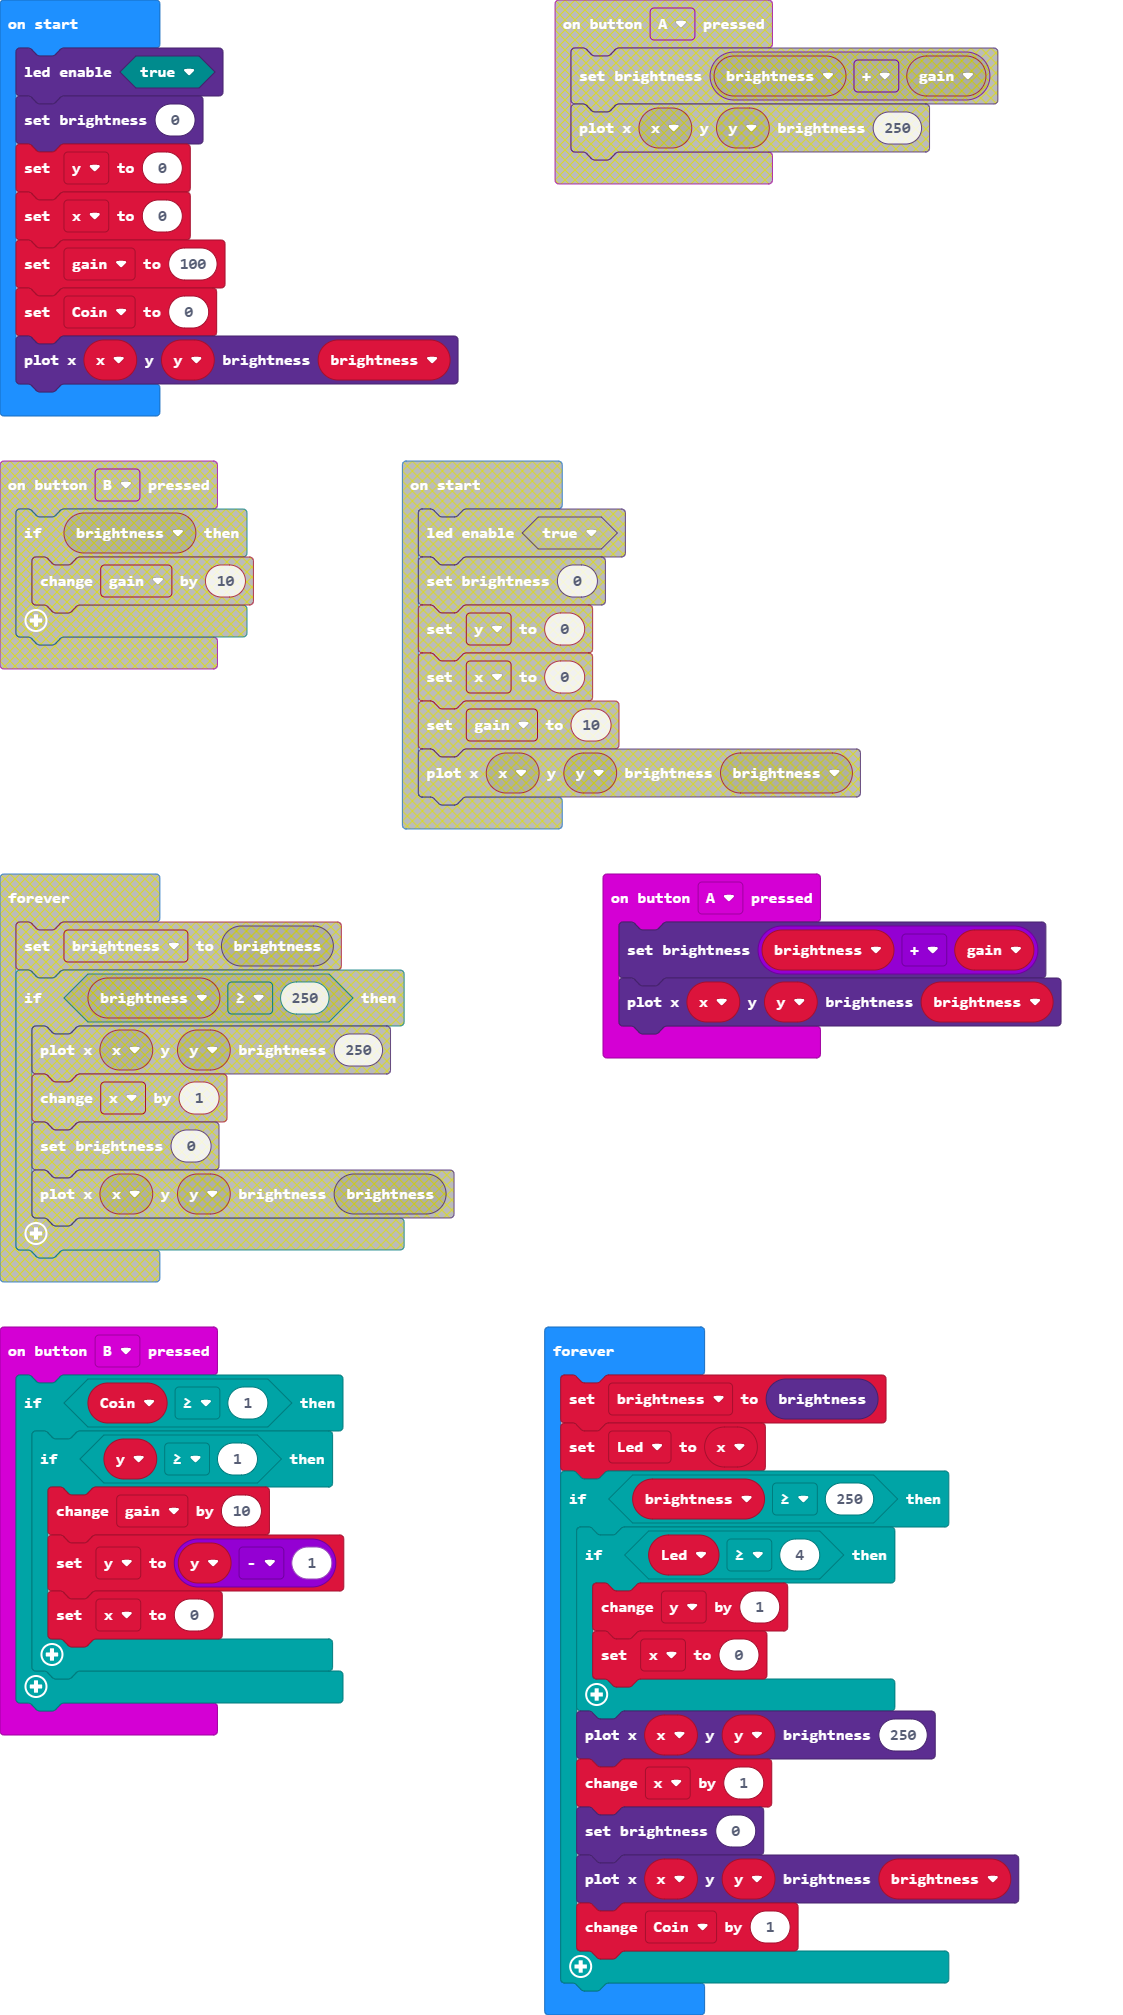
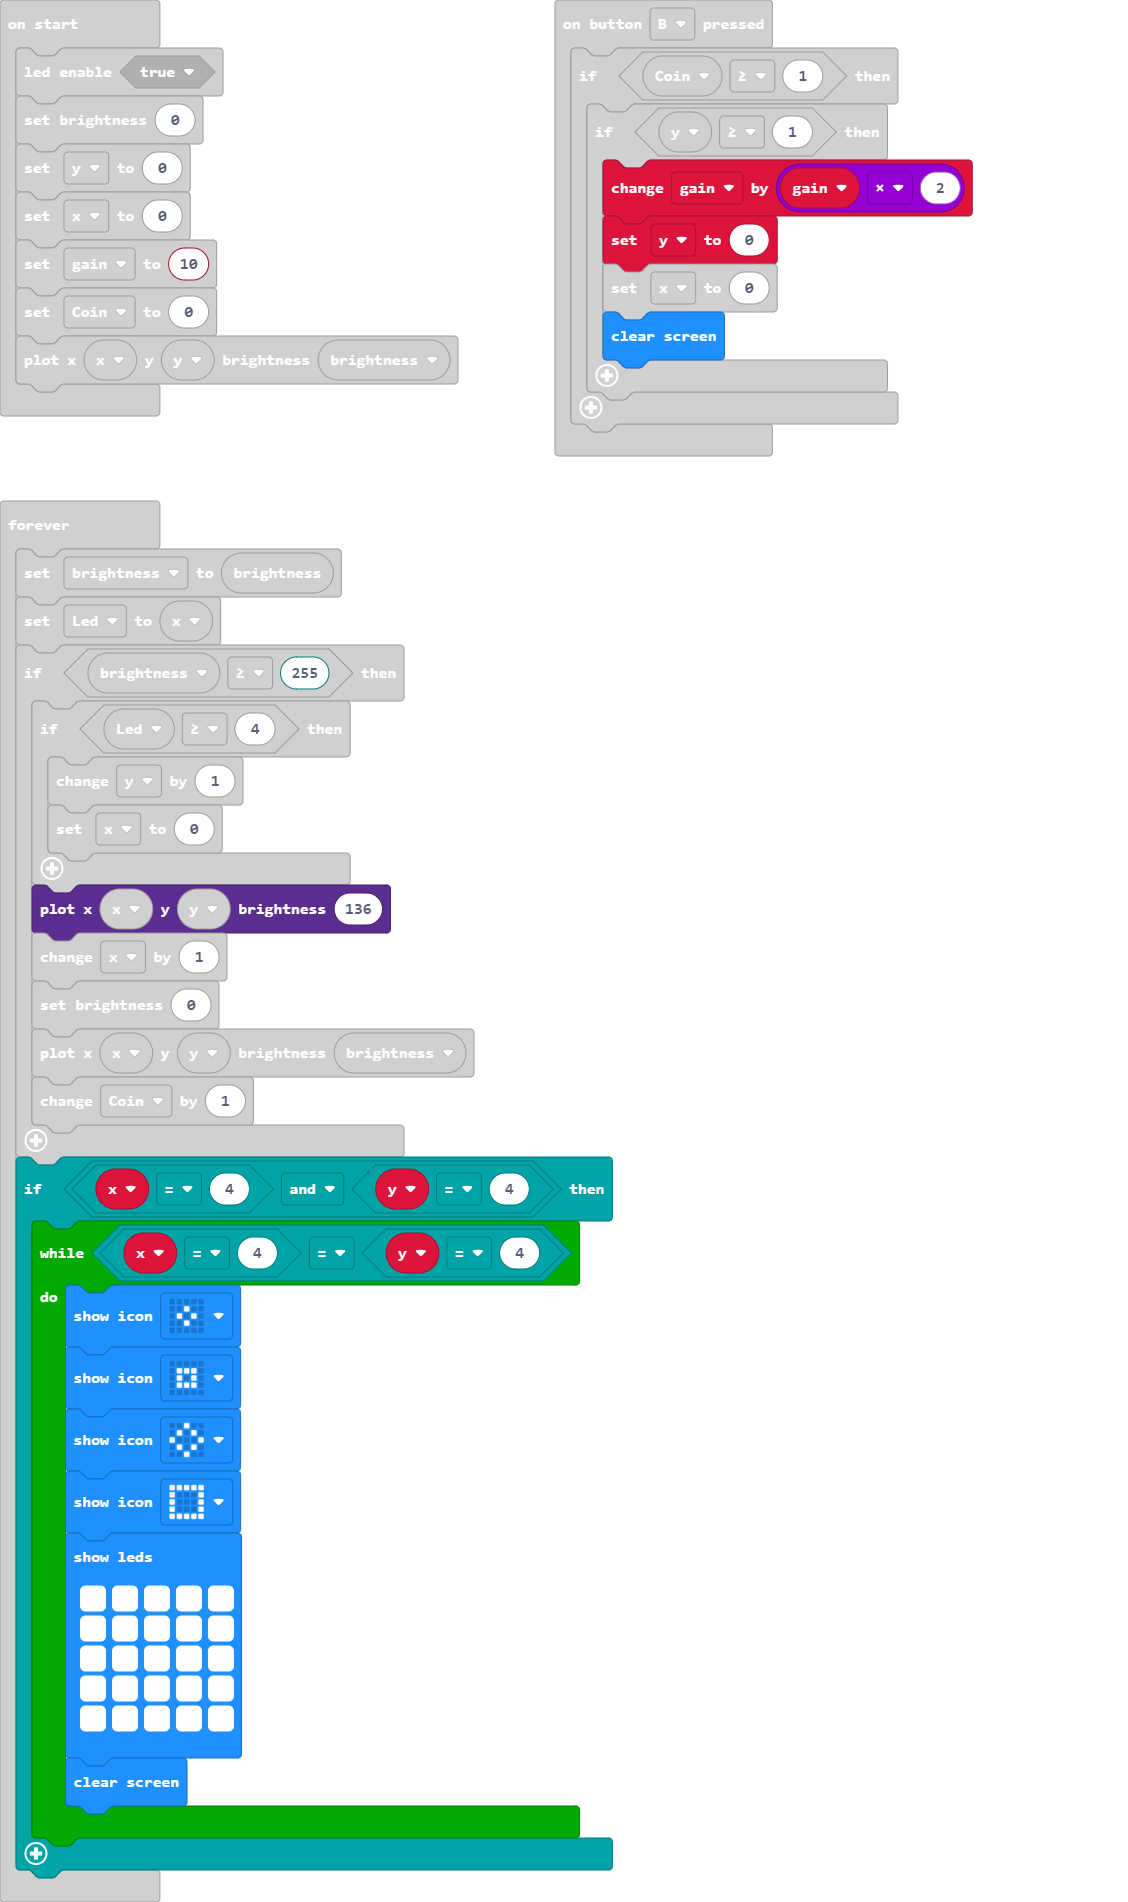
Update main.blocks, main.ts

diff --git a/main.ts b/main.ts
@@ -5,9 +5,10 @@ input.onButtonPressed(Button.A, function () {
 input.onButtonPressed(Button.B, function () {
     if (Coin >= 1) {
         if (y >= 1) {
-            gain += 10
-            y = y - 1
+            gain += gain * 2
+            y = 0
             x = 0
+            basic.clearScreen()
         }
     }
 })
@@ -21,21 +22,37 @@ led.enable(true)
 led.setBrightness(0)
 y = 0
 x = 0
-gain = 100
+gain = 10
 Coin = 0
 led.plotBrightness(x, y, brightness)
 basic.forever(function () {
     brightness = led.brightness()
     Led = x
-    if (brightness >= 250) {
+    if (brightness >= 255) {
         if (Led >= 4) {
             y += 1
             x = 0
         }
-        led.plotBrightness(x, y, 250)
+        led.plotBrightness(x, y, 136)
         x += 1
         led.setBrightness(0)
         led.plotBrightness(x, y, brightness)
         Coin += 1
+    }
+    if (x == 4 && y == 4) {
+        while (x == 4 == (y == 4)) {
+            basic.showIcon(IconNames.SmallDiamond)
+            basic.showIcon(IconNames.SmallSquare)
+            basic.showIcon(IconNames.Diamond)
+            basic.showIcon(IconNames.Square)
+            basic.showLeds(`
+                # # # # #
+                # # # # #
+                # # # # #
+                # # # # #
+                # # # # #
+                `)
+            basic.clearScreen()
+        }
     }
 })
